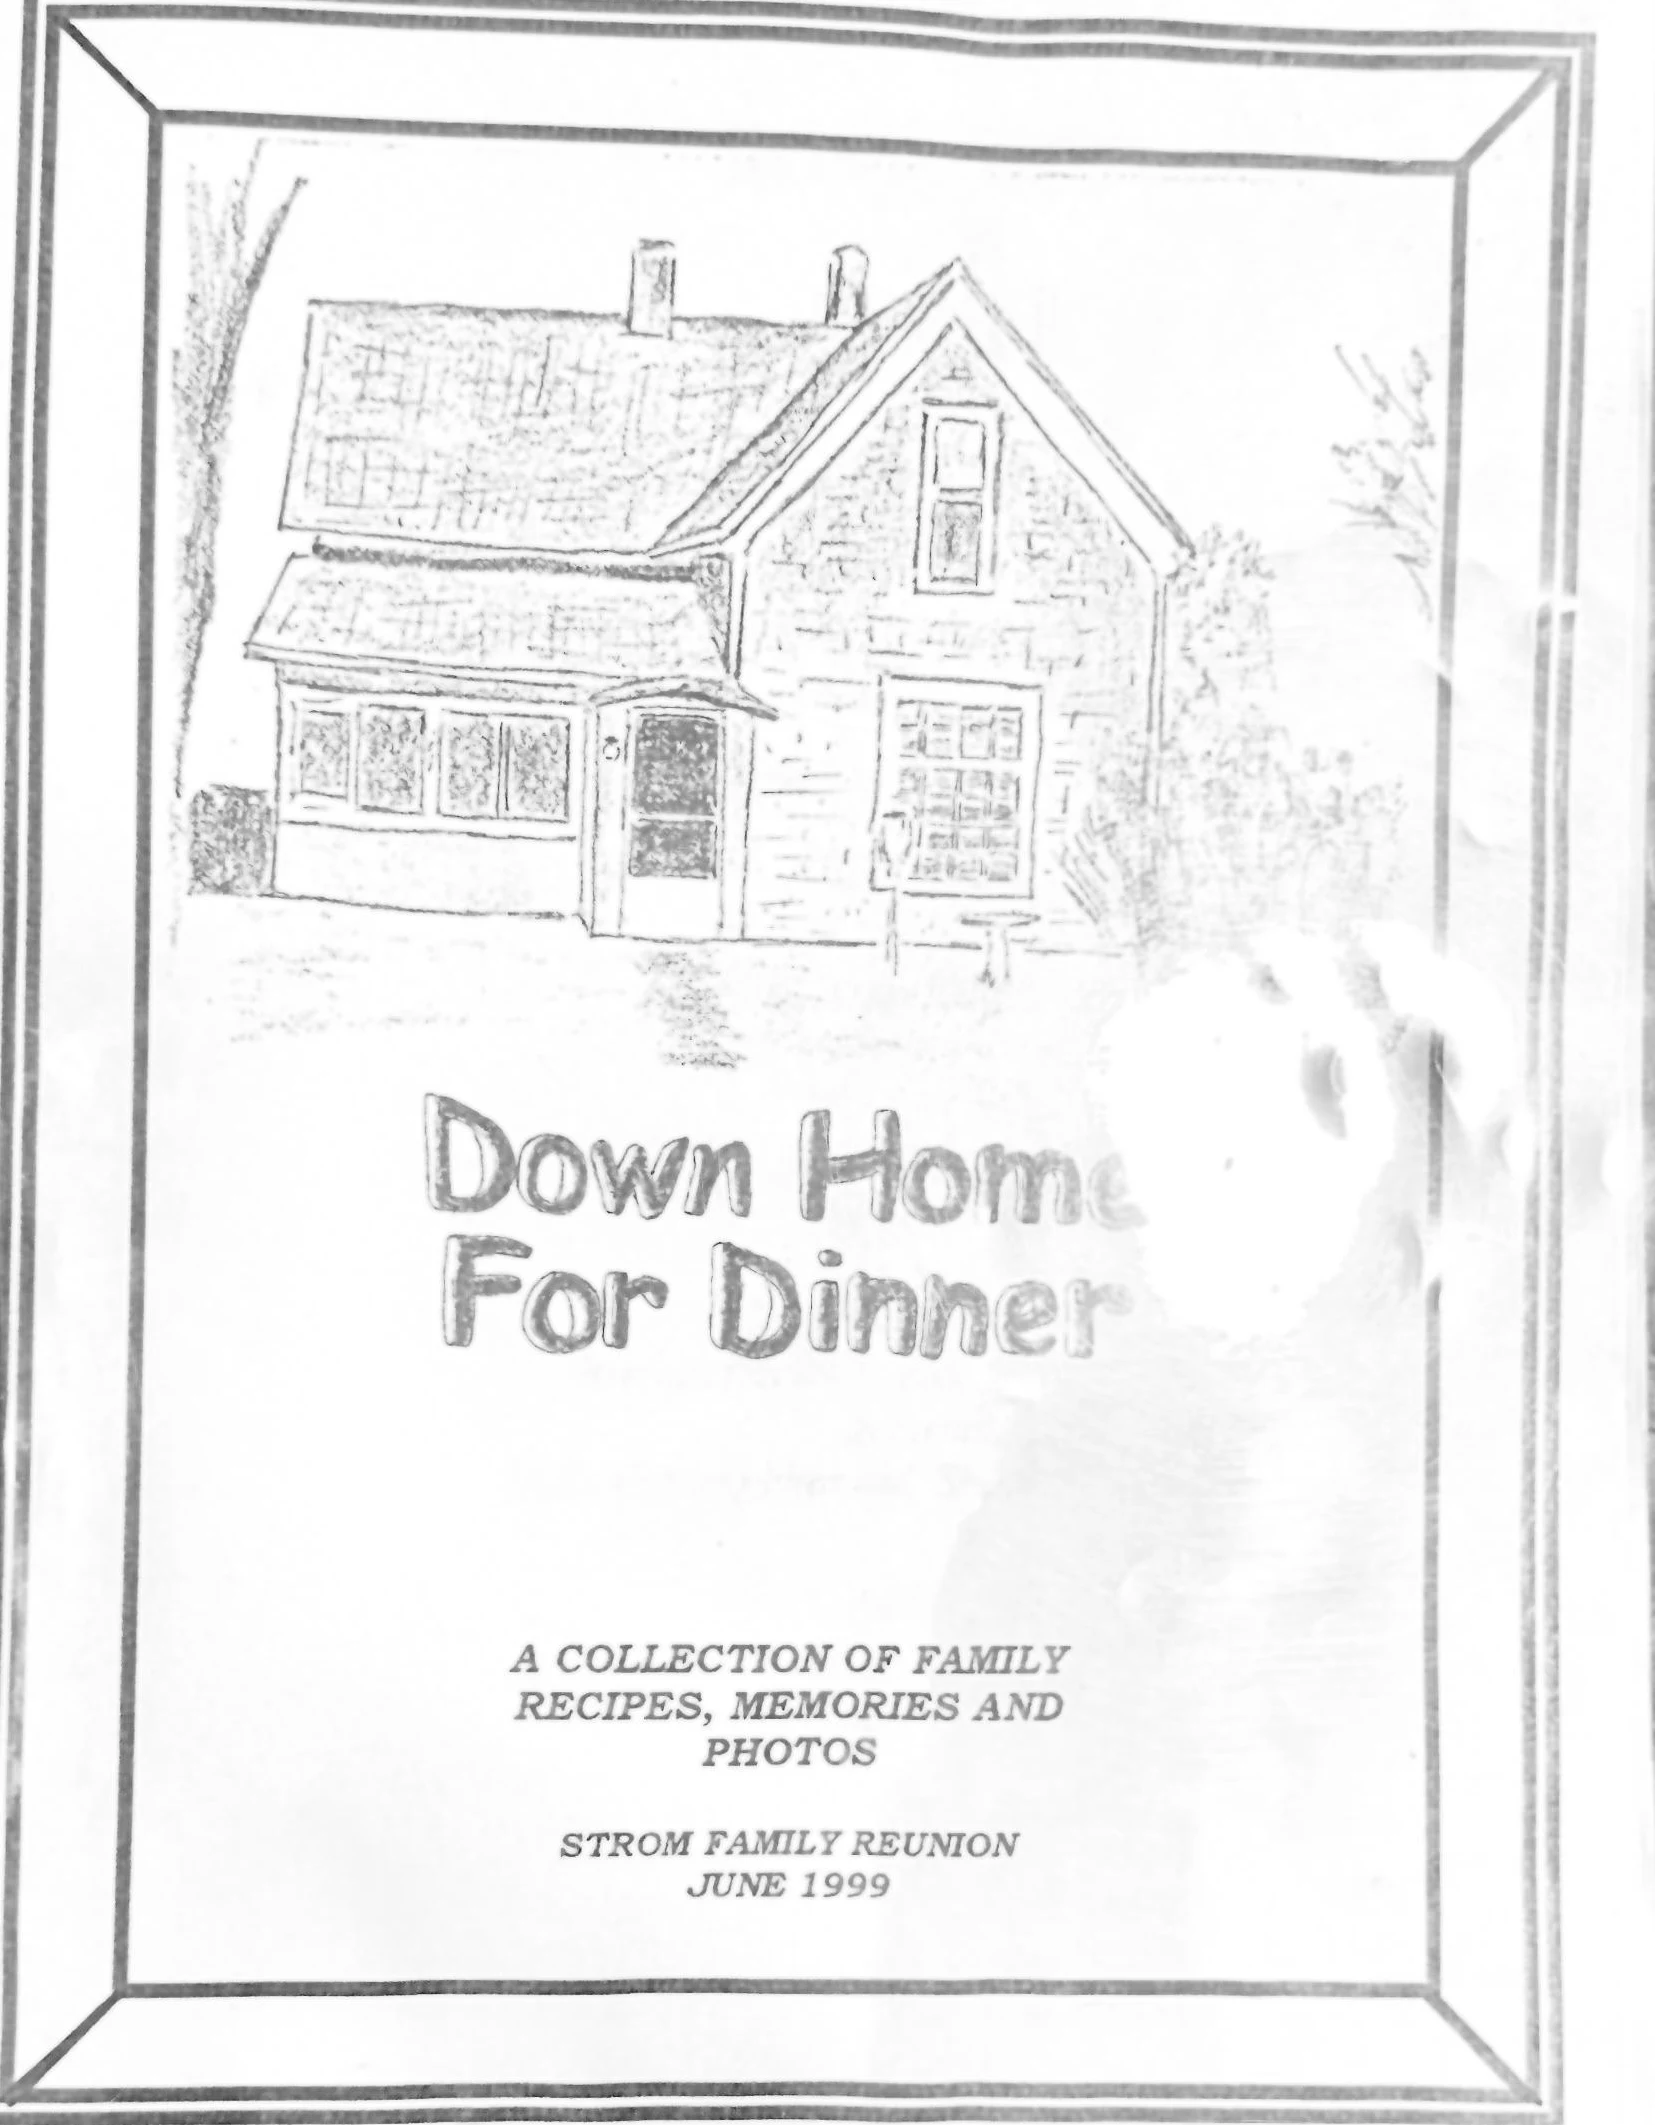
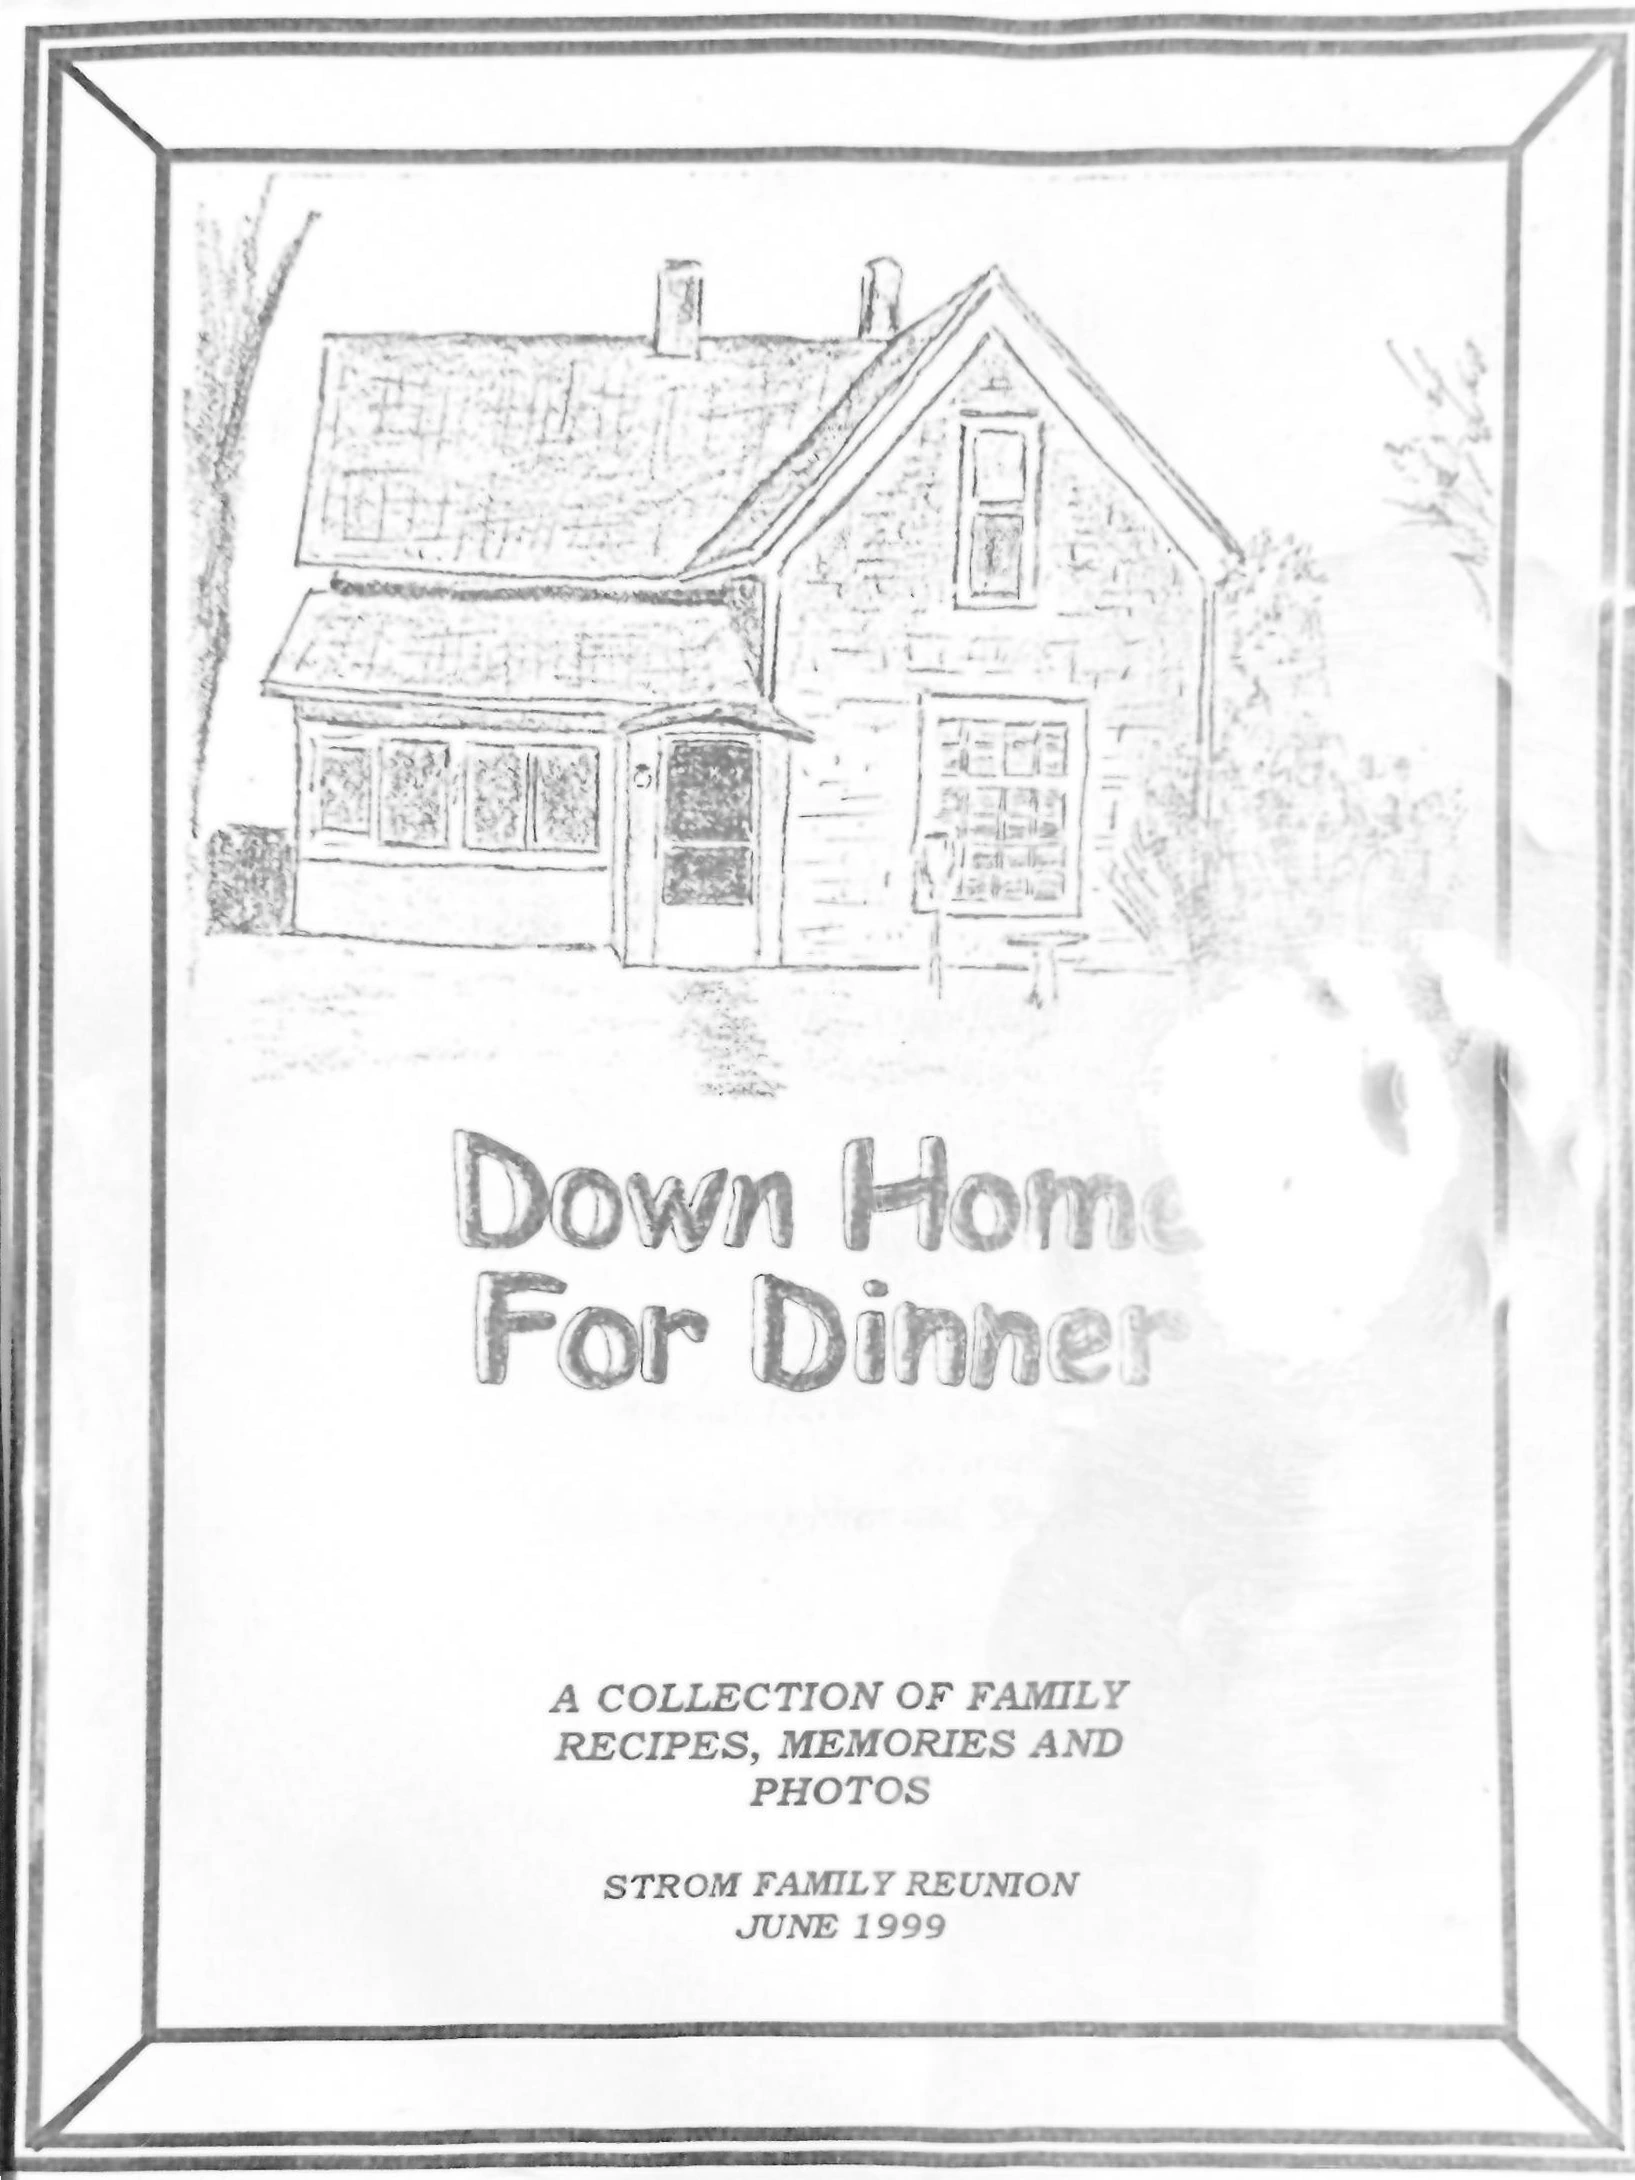
fix(cookbook): Level and square Strom Family Cookbook cover image

Changed region(s): [[0.0, 0.0, 1.0, 1.0], [0.7798, 0.4969, 0.811, 0.528], [0.7486, 0.4348, 0.7798, 0.4659]]

diff --git a/src/lib/firebase.js b/src/lib/firebase.js
@@ -121,9 +121,17 @@ export function saveFirebaseConfig(configObj) {
   }
 }
 
+// Allowed Google accounts that can access Erin's Christmas Library
+export const ALLOWED_EMAILS = ['harrisonagan@gmail.com'];
+
+export function isAuthorizedUser(user) {
+  if (!user || !user.email) return false;
+  return ALLOWED_EMAILS.includes(user.email.trim().toLowerCase());
+}
+
 /**
  * Google Sign-In via Firebase Auth.
- * Requests Gemini / generative-language scope so the user's Google session can power AI cover scanning.
+ * Restricted strictly to ALLOWED_EMAILS (harrisonagan@gmail.com).
  */
 export async function signInWithGoogle() {
   const { auth: firebaseAuth } = initFirebase();
@@ -135,6 +143,14 @@ export async function signInWithGoogle() {
 
   try {
     const result = await signInWithPopup(firebaseAuth, provider);
+    if (!isAuthorizedUser(result.user)) {
+      const triedEmail = result.user?.email || 'unknown account';
+      await signOut(firebaseAuth);
+      const err = new Error(`Access denied for ${triedEmail}. This library is restricted to authorized accounts only.`);
+      err.code = 'auth/unauthorized-email';
+      throw err;
+    }
+
     const credential = GoogleAuthProvider.credentialFromResult(result);
     const accessToken = credential?.accessToken || null;
     if (accessToken && typeof window !== 'undefined') {
@@ -143,7 +159,6 @@ export async function signInWithGoogle() {
     }
     return { user: result.user, accessToken };
   } catch (err) {
-    // Fallback to redirect on mobile browsers that block popups
     if (err?.code === 'auth/popup-blocked') {
       await signInWithRedirect(firebaseAuth, provider);
       return null;
@@ -158,6 +173,11 @@ export async function checkGoogleRedirectResult() {
   try {
     const result = await getRedirectResult(firebaseAuth);
     if (result?.user) {
+      if (!isAuthorizedUser(result.user)) {
+        const triedEmail = result.user?.email || 'unknown account';
+        await signOut(firebaseAuth);
+        throw new Error(`Access denied for ${triedEmail}.`);
+      }
       const credential = GoogleAuthProvider.credentialFromResult(result);
       const accessToken = credential?.accessToken || null;
       if (accessToken && typeof window !== 'undefined') {
@@ -168,6 +188,7 @@ export async function checkGoogleRedirectResult() {
     }
   } catch (e) {
     console.warn('Redirect auth check warning:', e);
+    throw e;
   }
   return null;
 }
@@ -175,7 +196,12 @@ export async function checkGoogleRedirectResult() {
 export function subscribeToAuthChanges(callback) {
   const { auth: firebaseAuth } = initFirebase();
   if (!firebaseAuth) return () => {};
-  return onAuthStateChanged(firebaseAuth, (user) => {
+  return onAuthStateChanged(firebaseAuth, async (user) => {
+    if (user && !isAuthorizedUser(user)) {
+      await signOut(firebaseAuth);
+      callback(null);
+      return;
+    }
     callback(user);
   });
 }

diff --git a/src/App.jsx b/src/App.jsx
@@ -1113,7 +1113,7 @@ const INITIAL_BOOKS = [
     author: 'Down Home For Dinner • 1999 Reunion',
     category: 'cookbook',
     badge: 'Cookbook',
-    cover: '/covers/strom-family-cookbook.webp?v=5',
+    cover: '/covers/strom-family-cookbook.webp?v=6',
     pdfUrl: '/strom_family_cookbook_cleaned.pdf',
     notes: 'Treasured family recipes, childhood memories & photos dedicated to Albion Sr. & Laura Strom 🥧 (Contributed by Erin, Sally, Peter, Virginia & family)',
     pages: Array.from({ length: 86 }, (_, i) => ({
